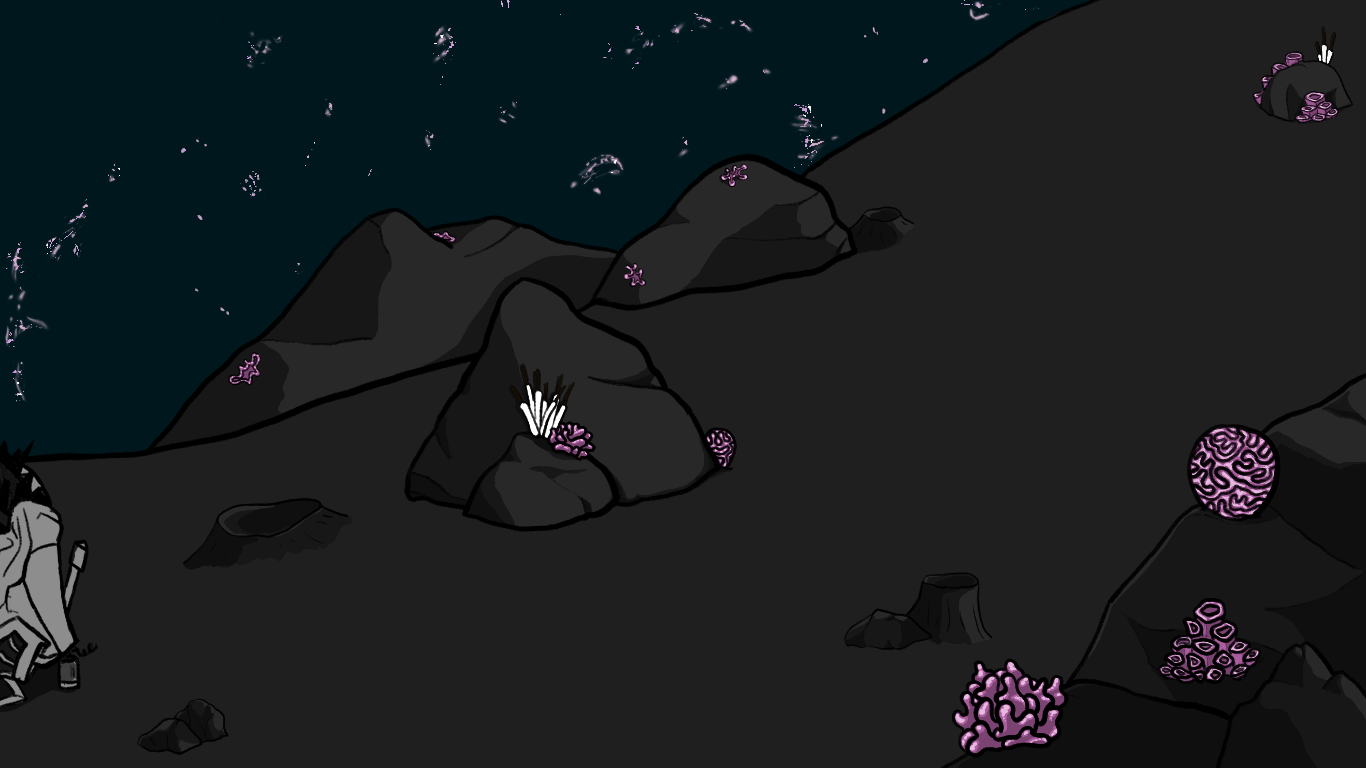
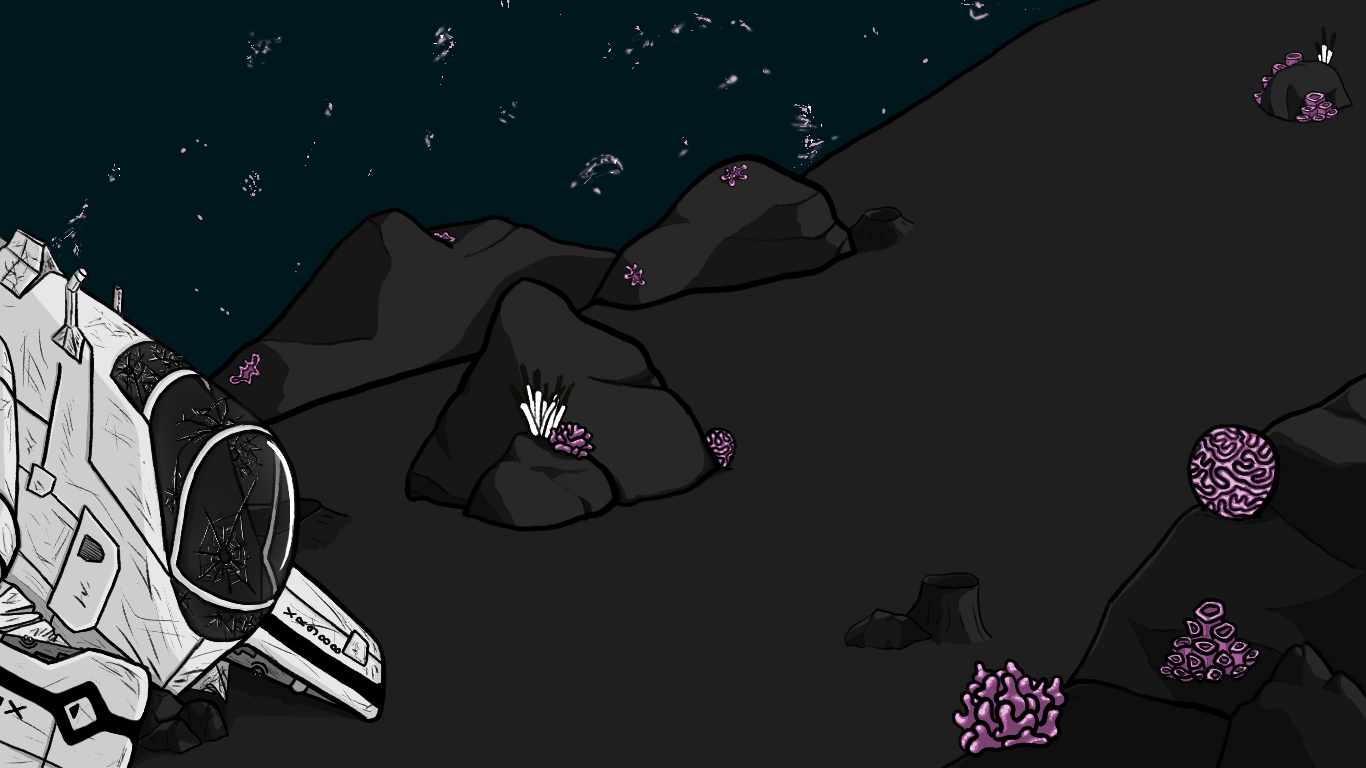
layer 1 change

Changed region(s): [[0.0, 0.2812, 0.3075, 1.0]]

diff --git a/main.js b/main.js
@@ -193,7 +193,7 @@ let console13 = new Console(
 );
 
 //otherStuff
-let astronaut = new Astronaut(125, 550, images);
+let astronaut = new Astronaut(425, 550, images);
 let statusBar = new StatusBar(50, 30, 4, 4);
 
 //VARIABLES
@@ -347,25 +347,32 @@ function gameScreens() {
 
 function mouseClicked() {
   //BUTTONS
+
   if (buttonStart.hitTest() && gameState === 0) {
     gameState = 1;
     morseCode.play();
-    backgroundMusic.play();
+    backgroundMusic.loop();
   } else if (button1.hitTest() && gameState === 1) {
     gameState = 2;
     morseCode.pause();
   } else if (button2.hitTest() && gameState === 2) {
     gameState = 3;
+    morseCode.play();
   } else if (button3.hitTest() && gameState === 3) {
     gameState = 4;
+    morseCode.pause();
   } else if (button4.hitTest() && gameState === 4) {
     gameState = 5;
+    morseCode.play();
   } else if (button5.hitTest() && gameState === 5) {
     gameState = 6;
+    morseCode.pause();
   } else if (button6.hitTest() && gameState === 6) {
     gameState = 7;
+    morseCode.play();
   } else if (button7.hitTest() && gameState === 7) {
     gameState = 8;
+    morseCode.pause();
   } else if (button8.hitTest() && gameState === 8) {
     gameState = 9;
   } else if (button9.hitTest() && gameState === 9) {
@@ -382,6 +389,7 @@ function mouseClicked() {
   }
 
   //CORAL BUTTONS
+
   if (
     coral1.hitTest() &&
     runGame === true &&
